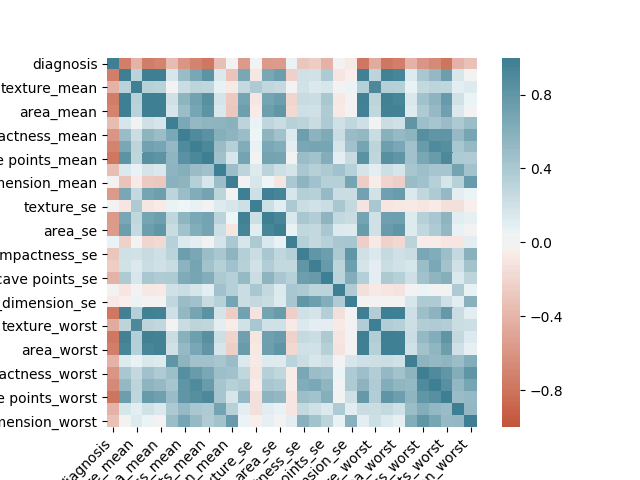
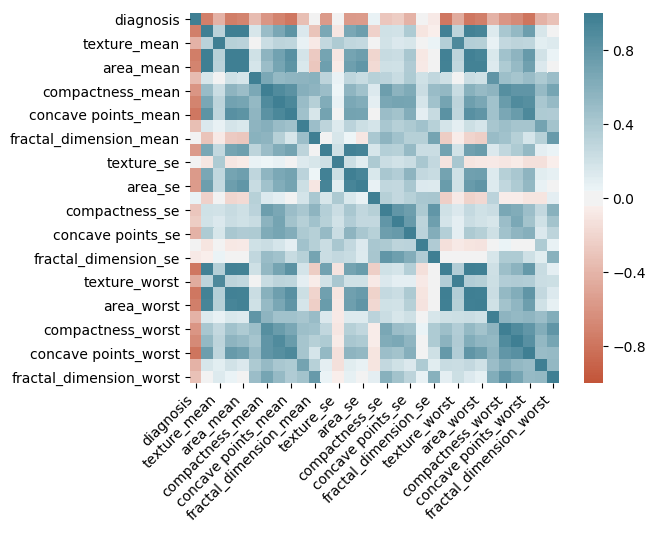
screen prints

diff --git a/icp1/Kmeans_clustering.py b/icp1/Kmeans_clustering.py
@@ -6,7 +6,13 @@ from sklearn.cluster import KMeans
 from sklearn import preprocessing
 from sklearn import metrics
 
+## Reading the dataframe from the CSV file
 df = pd.read_csv('Data/Data.csv')
+
+'''Data Cleaning
+Step1: drop the unique values as it doesnt mean of significance when understanding co-relation.
+Step : the target values are considered as Malign or Benign cancer which are replaced as numbers rather than characters.
+'''
 df = df.drop("id", axis=1)
 target_dict = {
     "M": 0,
@@ -20,6 +26,11 @@ prediction = df.iloc[:, 0:1]
 print(features.shape, prediction.shape)
 
 inertia_list = []
+
+'''
+k-means clustering to see how given data behaves with number of clusters.
+'''
+
 for i in range(1, 11):
     kmeans = KMeans(n_clusters=i, init='k-means++', max_iter=300, n_init=10, random_state=0)
     kmeans.fit(features)
@@ -49,6 +60,11 @@ km.fit(X_scaled)
 y_cluster_kmeans = km.predict(X_scaled)
 score = metrics.silhouette_score(X_scaled, y_cluster_kmeans)
 print(score)
+
+'''
+with reducing dimensionality from many features into two to see how the data is scatterred. 
+this also shows if using PCA to do the dimensionality reduction actually helps.
+'''
 
 pca = PCA(n_components=2)
 x_pca = pca.fit_transform(X_scaled_array)

diff --git a/icp1/Co_relation_analysis.py b/icp1/Co_relation_analysis.py
@@ -2,7 +2,13 @@ import pandas as pd
 import seaborn as sns
 import matplotlib.pyplot as plt
 
+## Reading the dataframe from the CSV file
 df = pd.read_csv('Data/Data.csv')
+
+'''Data Cleaning
+Step1: drop the unique values as it doesnt mean of significance when understanding co-relation.
+Step : the target values are considered as Malignent or Benign cancer which are replaced as numbers rather than characters.
+'''
 df = df.drop("id", axis=1)
 target_dict = {
     "M": 0,
@@ -10,6 +16,9 @@ target_dict = {
 }
 df["diagnosis"] = df["diagnosis"].apply(lambda x: target_dict[x])
 
+'''
+Understanding co-relation 
+'''
 corr = df.corr()
 ax = sns.heatmap(
     corr,
@@ -22,5 +31,5 @@ ax.set_xticklabels(
     rotation=45,
     horizontalalignment='right'
 )
-plt.savefig("plots/correlation_features.png")
+plt.savefig("plots/correlation_features.png", bbox_inches='tight')
 plt.show()

diff --git a/icp1/statistical_analysis.py b/icp1/statistical_analysis.py
@@ -1,5 +1,4 @@
 import pandas as pd
-import seaborn as sns
 import matplotlib.pyplot as plt
 
 df = pd.read_csv('Data/Data.csv')
@@ -17,6 +16,6 @@ index = mean_df.columns
 plot_df = pd.DataFrame({'malignant': m_df,
                         'benign': b_df}, index=index)
 ax = plot_df.plot.bar(rot=90)
-plt.savefig("plots/mean_graph.png")
+plt.savefig("plots/mean_graph.png",bbox_inches='tight', dpi=960)
 plt.show()
 
